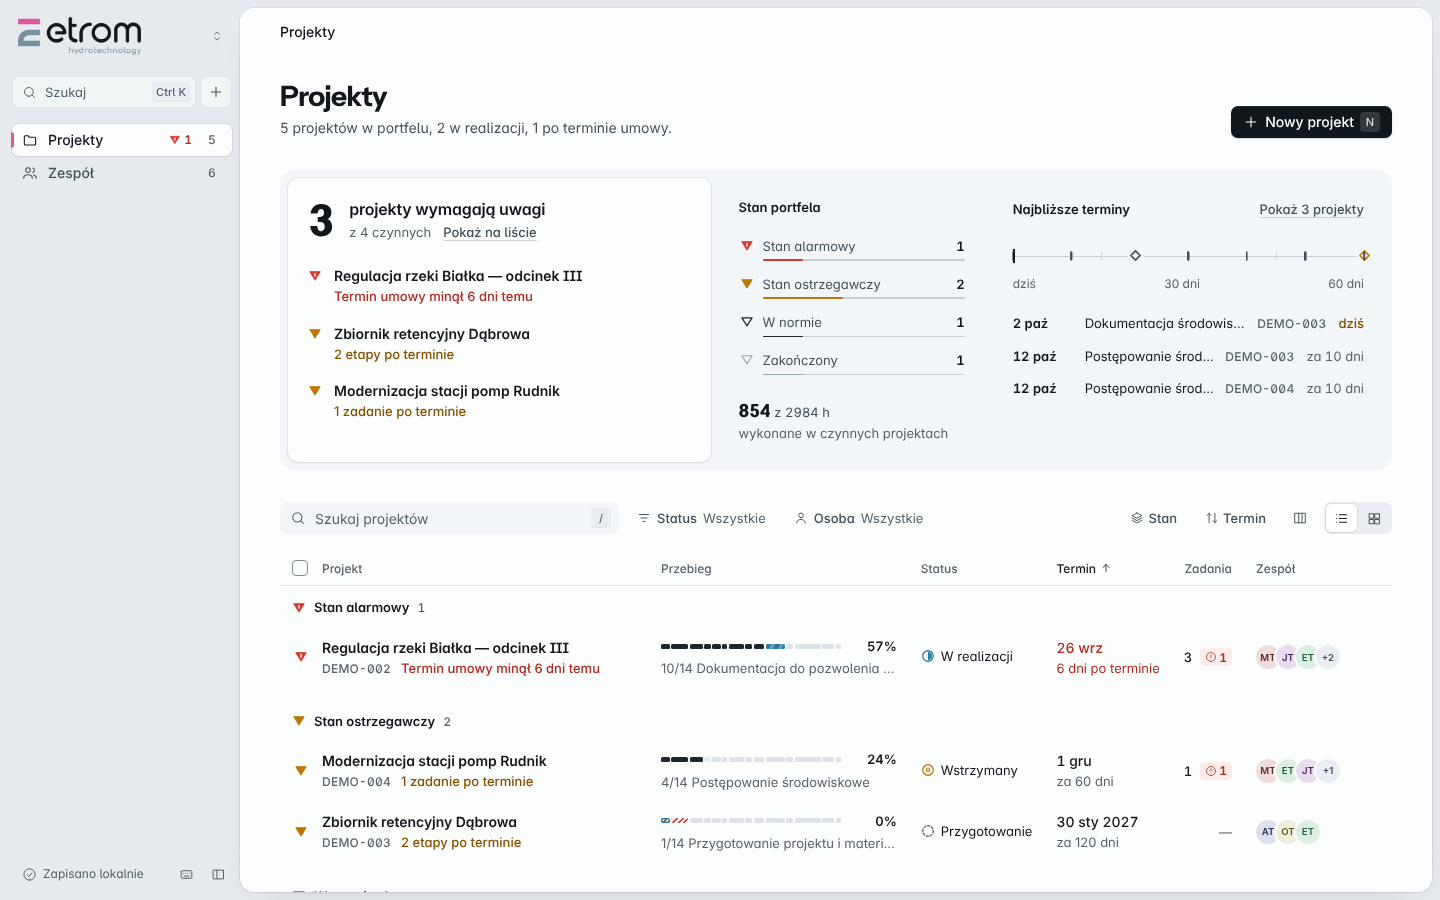
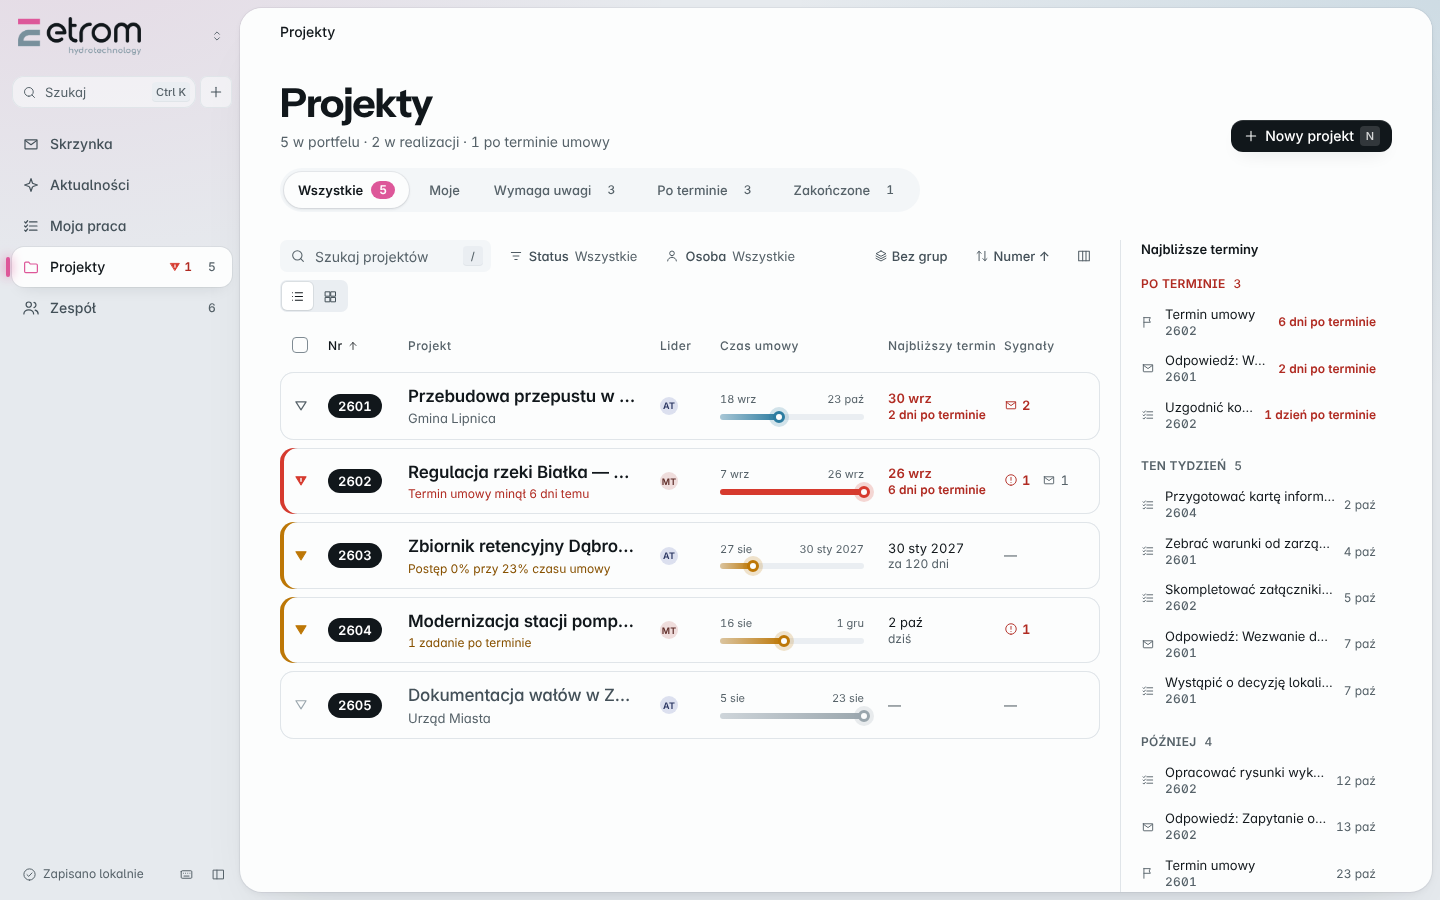
Polish: łuna tła, panel boczny, zakładki-pigułki, tabela projektów z wierszami-kartami i wstęgą czasu umowy
Claude-Session: https://claude.ai/code/session_01K4hy1AbaUhrYWgauQ4MMbV

diff --git a/styles/polish.css b/styles/polish.css
@@ -1,0 +1,79 @@
+/* ETROM — warstwa „polish”: głębia, światło i ruch.
+   Ładowana jako ostatnia; zmienia wygląd, nie układ ani zachowanie. */
+
+/* ---------- Tło okna: delikatna łuna marki i nurtu ---------- */
+body, .app {
+  background:
+    radial-gradient(900px 520px at 4% -8%, color-mix(in srgb, var(--brand) 11%, transparent), transparent 70%),
+    radial-gradient(1000px 600px at 100% 0%, color-mix(in srgb, var(--flow) 13%, transparent), transparent 65%),
+    var(--canvas);
+  background-attachment: fixed;
+}
+
+/* ---------- Arkusz treści: większe zaokrąglenie i unoszenie nad tłem ---------- */
+.sheet {
+  border-radius: 22px;
+  box-shadow: 0 0 0 1px light-dark(rgb(16 26 34 / .05), rgb(255 255 255 / .06)), 0 2px 6px light-dark(rgb(16 26 34 / .05), rgb(0 0 0 / .4)), 0 30px 60px -30px var(--shadow-tint);
+}
+
+/* ---------- Panel boczny ---------- */
+.nav__item { height: 2.5rem; border-radius: 12px; font-weight: 500; }
+.nav__item > svg { width: 18px; height: 18px; }
+.nav__item:hover { background: color-mix(in srgb, var(--sheet) 70%, transparent); transform: translateX(2px); transition: transform .15s, background-color .15s; }
+.nav__item[aria-current="page"] {
+  background: var(--sheet);
+  box-shadow: 0 0 0 1px light-dark(rgb(16 26 34 / .06), rgb(255 255 255 / .07)), 0 8px 18px -10px var(--shadow-tint);
+}
+.nav__item[aria-current="page"] > svg { color: var(--brand); }
+.nav__item[aria-current="page"]:not(.nav__item--project)::before { left: -6px; top: 10px; bottom: 10px; width: 4px; border-radius: 4px; box-shadow: 0 0 12px var(--brand); }
+.sidebar__search { border-radius: 12px; }
+
+/* ---------- Tytuł strony ---------- */
+.t-page-title { font-size: 2.5rem; font-weight: 700; letter-spacing: -0.03em; }
+.page-header__description { color: var(--ink-3); }
+
+/* ---------- Zakładki widoków jako „pigułki” ---------- */
+.pf-views { border-bottom: 0; gap: 6px; padding: 4px; background: var(--wash); border-radius: 999px; width: fit-content; max-width: 100%; }
+.pf-view { height: 2.25rem; padding: 0 14px; border: 0; margin: 0; border-radius: 999px; transition: background-color .15s, color .15s, box-shadow .15s; }
+.pf-view:hover { background: color-mix(in srgb, var(--sheet) 60%, transparent); }
+.pf-view.is-active { background: var(--sheet); box-shadow: 0 1px 3px light-dark(rgb(16 26 34 / .12), rgb(0 0 0 / .5)), 0 0 0 1px light-dark(rgb(16 26 34 / .05), rgb(255 255 255 / .06)); border: 0; }
+.pf-view.is-active .pf-view__count { background: var(--brand); color: #fff; }
+
+/* ---------- Przyciski główne ---------- */
+.btn--primary { border-radius: 12px; box-shadow: 0 8px 20px -10px var(--shadow-tint), inset 0 1px 0 rgb(255 255 255 / .12); transition: transform .15s, box-shadow .15s; }
+.btn--primary:hover { transform: translateY(-1px); }
+
+/* ---------- Tabela projektów: pływające wiersze ---------- */
+.pf-table .table { border-spacing: 0 8px; margin-top: -8px; }
+.pf-table .table thead th { background: transparent; border: 0; box-shadow: none; text-transform: none; font-size: var(--fs-xs); letter-spacing: .04em; color: var(--ink-3); }
+.pf-table .table tbody tr.table__row > td {
+  background: var(--sheet);
+  box-shadow: inset 0 1px 0 var(--line), inset 0 -1px 0 var(--line);
+  transition: background-color .15s;
+}
+.pf-table .table tbody tr.table__row > td:first-child { box-shadow: inset 1px 0 0 var(--line), inset 0 1px 0 var(--line), inset 0 -1px 0 var(--line); border-radius: 14px 0 0 14px; }
+.pf-table .table tbody tr.table__row > td:last-child { box-shadow: inset -1px 0 0 var(--line), inset 0 1px 0 var(--line), inset 0 -1px 0 var(--line); border-radius: 0 14px 14px 0; }
+.pf-table .table tbody tr.table__row:hover > td { background: var(--wash); }
+.pf-table .table tbody tr.level-alarm > td:first-child { box-shadow: inset 4px 0 0 var(--alarm), inset 0 1px 0 var(--line), inset 0 -1px 0 var(--line); }
+.pf-table .table tbody tr.level-warning > td:first-child { box-shadow: inset 4px 0 0 var(--warn), inset 0 1px 0 var(--line), inset 0 -1px 0 var(--line); }
+.pf-table .table tbody tr.table__row { cursor: pointer; }
+.pf-table .project-link { font-size: 1.0625rem; font-weight: 650; letter-spacing: -0.01em; }
+.pf-num--pill { display: inline-flex; padding: 3px 10px; border-radius: 999px; background: var(--ink); color: var(--on-ink); font-weight: 600; font-size: var(--fs-sm); }
+.pf-table .col-code { width: 5.75rem; }
+.pf-table .col-time { width: 12rem; }
+.pf-table .pc-ribbon { margin: 0; padding: 0; --pc-accent: var(--flow); }
+.pf-table tr.level-alarm .pc-ribbon { --pc-accent: var(--alarm); }
+.pf-table tr.level-warning .pc-ribbon { --pc-accent: var(--warn); }
+.pf-table tr.is-closed .pc-ribbon { --pc-accent: var(--ink-4); }
+@container page (max-width: 62rem) { .pf-table .col-time { display: none; } }
+
+@media (prefers-reduced-motion: reduce) { .nav__item:hover, .btn--primary:hover { transform: none; } }
+.pf-table .col-code { width: 5rem; }
+.pf-table .col-time { width: 9.5rem; }
+.pf-table .col-team { width: 6.75rem; }
+.pf-table .col-deadline { width: 7.25rem; }
+.pf-table .col-tasks { width: 4.25rem; }
+.pf-table .pc-ribbon__dates { font-size: .6875rem; }
+.pf-table .pf-leader > span:not(.avatar) { display: none; }
+.pf-table .col-team { width: 3.75rem; }
+.pf-table .col-time { width: 10.5rem; }

diff --git a/src/ui/projectList.js b/src/ui/projectList.js
@@ -23,6 +23,7 @@
   var COLUMNS = [
     { key: 'client', label: 'Zamawiający (pod nazwą)', optional: true },
     { key: 'team', label: 'Lider', optional: true },
+    { key: 'time', label: 'Czas umowy', optional: true },
     { key: 'deadline', label: 'Najbliższy termin', sort: 'deadline', optional: true },
     { key: 'tasks', label: 'Sygnały', optional: true }
   ];
@@ -197,6 +198,7 @@
       { key: 'code', label: 'Nr', sort: 'code' },
       { key: 'name', label: 'Projekt', sort: 'name' },
       hidden.indexOf('team') < 0 ? { key: 'team', label: 'Lider' } : null,
+      hidden.indexOf('time') < 0 ? { key: 'time', label: 'Czas umowy' } : null,
       hidden.indexOf('deadline') < 0 ? { key: 'deadline', label: 'Najbliższy termin', sort: 'deadline' } : null,
       hidden.indexOf('tasks') < 0 ? { key: 'tasks', label: 'Sygnały' } : null
     ].filter(Boolean);
@@ -213,7 +215,8 @@
       on: { change: function (event) { ctx.actions.selectProjects([project.id], event.target.checked); } }
     });
     var cells = {
-      code: D.el('span', { class: 'pf-num t-num' }, [project.code]),
+      code: D.el('span', { class: 'pf-num pf-num--pill t-num' }, [project.code]),
+      time: timeRibbon(project, now) || D.el('span', { class: 't-muted', text: '—' }),
       name: nameCell(project, health, hidden),
       team: leaderCell(project, ctx),
       deadline: dueCell(project, ctx, now),

diff --git a/src/core/prefs.js b/src/core/prefs.js
@@ -12,7 +12,7 @@
   var DENSITIES = ['comfortable', 'compact'];
   var TASK_VIEWS = ['list', 'kanban'];
   // Elementy wiersza projektu, które można ukryć w opcjach widoku.
-  var COLUMNS = ['client', 'progress', 'stages', 'tasks', 'deadline', 'team'];
+  var COLUMNS = ['client', 'progress', 'stages', 'tasks', 'deadline', 'team', 'time'];
   // Nazwy z wcześniejszych wersji przeniesione na obecne.
   var LEGACY_ACCENTS = { hydro: 'standard', topo: 'graphite', raspberry: 'standard' };
   var MAX_PINNED = 8;

diff --git a/index.html b/index.html
@@ -20,6 +20,7 @@
   <link rel="stylesheet" href="styles/project.css">
   <link rel="stylesheet" href="styles/inbox.css">
   <link rel="stylesheet" href="styles/feed.css">
+  <link rel="stylesheet" href="styles/polish.css">
 </head>
 <body>
   <a class="skip-link" href="#main">Przejdź do treści</a>
